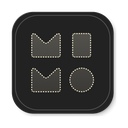
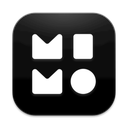
fix(mimo): the cloud card no longer pretends to read the Desktop app, and a new Desktop mark
Two things the three-card split left behind.

The auth modal still ran the Desktop credential import for BOTH cards, so opening
the cloud card (`xiaomi-mimo`) showed "Quit Xiaomi MiMo Desktop and retry" and
"the desktop app keeps an exclusive lock on its credential store" — for a card
that bills the cloud API and has nothing to do with the Desktop app. The modal now
derives its screen from the card: `mimo-desktop` keeps the detect/import flow,
`xiaomi-mimo` goes straight to browser authorization. Deriving rather than storing
the cloud phase also means a phase left over from the other card cannot leak the
Desktop screens in.

The Desktop card gets the icon the user supplied — a black squircle with the four
glyphs — replacing the previous mark. Regenerated at the repo's 128px/RGBA
convention (source already had transparent corners).

The "Preview models (MiMo-X-Pro/Flash) will be available" line named the retired
ids, so it now just says Desktop models (zh-CN / zh-TW literals updated with it,
plus the two new cloud-card strings).

Guard: the routes test now asserts every screen switches on the derived phase, so
a raw `{phase === ` cannot reappear and put the Desktop notices back on the cloud
card. Full suite 3374 tests, gate reports no regression; golden snapshots clean.

diff --git a/src/shared/components/XiaomiMimoAuthModal.js b/src/shared/components/XiaomiMimoAuthModal.js
@@ -23,7 +23,17 @@ export default function XiaomiMimoAuthModal({ provider, isOpen, onSuccess, onClo
   // `mimo-desktop` (account-session models). Every endpoint below is addressed by
   // provider id, so the connection lands under the card the user actually opened.
   const providerId = provider === "mimo-desktop" ? "mimo-desktop" : "xiaomi-mimo";
+  // The Desktop card is the only one that reads the local Desktop profile. The
+  // cloud card bills the API, so its modal goes straight to browser authorization
+  // (or the separate Add API Key dialog). Running the Desktop import there used to
+  // show "quit MiMo Desktop"/credential-lock text on a card that has nothing to do
+  // with the Desktop app.
+  const isDesktopCard = providerId === "mimo-desktop";
   const [phase, setPhase] = useState("detecting"); // detecting | found | not-found | importing
+  // The cloud card has exactly one screen, so its phase is DERIVED rather than
+  // stored: a stored value could survive a card switch and leak the Desktop UI
+  // ("quit MiMo Desktop" and the credential-lock notice) onto a cloud card.
+  const effectivePhase = isDesktopCard ? phase : "cloud";
   const [detectResult, setDetectResult] = useState(null);
   const [desktopLocked, setDesktopLocked] = useState(false);
   const [error, setError] = useState(null);
@@ -64,6 +74,9 @@ export default function XiaomiMimoAuthModal({ provider, isOpen, onSuccess, onClo
   // Auto-detect local credentials when modal opens
   useEffect(() => {
     if (!isOpen) return;
+    // Cloud card: never touch the Desktop profile. `effectivePhase` is already
+    // "cloud", so nothing to transition to — just skip the import machinery.
+    if (!isDesktopCard) return;
     let cancelled = false;
 
     (async () => {
@@ -104,7 +117,7 @@ export default function XiaomiMimoAuthModal({ provider, isOpen, onSuccess, onClo
     })();
 
     return () => { cancelled = true; };
-  }, [isOpen]);
+  }, [isOpen, isDesktopCard]);
 
   // Quiet re-check: the user may sign into MiMo Desktop WHILE this modal sits
   // on the "not found" screen — the original detect only ran once on open, so
@@ -112,7 +125,7 @@ export default function XiaomiMimoAuthModal({ provider, isOpen, onSuccess, onClo
   // spinner flicker) and flip via the full detect() only when credentials
   // actually appeared.
   useEffect(() => {
-    if (!isOpen || phase !== "not-found") return;
+    if (!isOpen || !isDesktopCard || phase !== "not-found") return;
     const t = setInterval(async () => {
       try {
         const res = await fetch(`/api/oauth/xiaomi-mimo/auto-import`);
@@ -121,7 +134,7 @@ export default function XiaomiMimoAuthModal({ provider, isOpen, onSuccess, onClo
       } catch { /* transient — keep the current screen */ }
     }, 4000);
     return () => clearInterval(t);
-  }, [isOpen, phase]);
+  }, [isOpen, phase, isDesktopCard]);
 
   // Import the auto-detected credentials. Session-only (no auth.json sk- key but
   // a readable Desktop account session) is a first-class path: the session alone
@@ -322,8 +335,41 @@ export default function XiaomiMimoAuthModal({ provider, isOpen, onSuccess, onClo
   return (
     <Modal isOpen={isOpen} title={translate("Connect Xiaomi MiMo")} onClose={onClose}>
       <div className="flex flex-col gap-4">
+        {/* Cloud card (`xiaomi-mimo`): browser authorization only. The Desktop
+            session import belongs to the MiMo Desktop card, so none of the
+            credential-lock / "quit the desktop app" guidance applies here. */}
+        {effectivePhase === "cloud" && (
+          <>
+            <div className="bg-blue-50 dark:bg-blue-900/20 p-3 rounded-lg border border-blue-200 dark:border-blue-800">
+              <div className="flex gap-2 items-start">
+                <span className="material-symbols-outlined text-blue-600 dark:text-blue-400">info</span>
+                <div className="text-sm text-blue-800 dark:text-blue-200">
+                  <p className="font-medium">{translate("Cloud models — sign in with the browser")}</p>
+                  <p className="mt-1 opacity-80">
+                    {translate("This card bills the cloud API, so it uses the browser authorization or an sk- API key. Desktop credits belong to the MiMo Desktop card.")}
+                  </p>
+                </div>
+              </div>
+            </div>
+
+            {error && (
+              <div className="bg-red-50 dark:bg-red-900/20 p-3 rounded-lg border border-red-200 dark:border-red-800">
+                <p className="text-sm text-red-600 dark:text-red-400">{error}</p>
+              </div>
+            )}
+
+            {!oauthUrl ? (
+              <Button onClick={handleStartOAuth} fullWidth>
+                {translate("Sign in via Browser")}
+              </Button>
+            ) : (
+              renderBrowserAuth()
+            )}
+          </>
+        )}
+
         {/* Detecting */}
-        {phase === "detecting" && (
+        {effectivePhase === "detecting" && (
           <div className="text-center py-6">
             <div className="size-16 mx-auto mb-4 rounded-full bg-primary/10 flex items-center justify-center">
               <span className="material-symbols-outlined text-3xl text-primary animate-spin">
@@ -338,7 +384,7 @@ export default function XiaomiMimoAuthModal({ provider, isOpen, onSuccess, onClo
         )}
 
         {/* Found — one-click import */}
-        {phase === "found" && detectResult && (
+        {effectivePhase === "found" && detectResult && (
           <>
             <div className="bg-green-50 dark:bg-green-900/20 p-3 rounded-lg border border-green-200 dark:border-green-800">
               <div className="flex gap-2">
@@ -355,7 +401,7 @@ export default function XiaomiMimoAuthModal({ provider, isOpen, onSuccess, onClo
                   </p>
                   <p className="mt-1 opacity-80">
                     {detectResult.sessionOnly
-                      ? translate("Signed in via Desktop — Preview models (MiMo-X-Pro/Flash) will be available. Cloud models need an sk- API key.")
+                      ? translate("Signed in via Desktop — the Desktop models will be available. Cloud models need an sk- API key.")
                       : detectResult.hasDesktopSession
                         ? translate("Desktop account session detected — Preview models will be available.")
                         : detectResult.desktopLocked
@@ -413,7 +459,7 @@ export default function XiaomiMimoAuthModal({ provider, isOpen, onSuccess, onClo
         )}
 
         {/* Importing */}
-        {phase === "importing" && (
+        {effectivePhase === "importing" && (
           <div className="text-center py-6">
             <div className="size-16 mx-auto mb-4 rounded-full bg-primary/10 flex items-center justify-center">
               <span className="material-symbols-outlined text-3xl text-primary animate-spin">
@@ -425,7 +471,7 @@ export default function XiaomiMimoAuthModal({ provider, isOpen, onSuccess, onClo
         )}
 
         {/* Not found — offer OAuth fallback */}
-        {phase === "not-found" && (
+        {effectivePhase === "not-found" && (
           <>
             <div className="bg-amber-50 dark:bg-amber-900/20 p-3 rounded-lg border border-amber-200 dark:border-amber-800">
               <div className="flex gap-2 items-start">

diff --git a/tests/unit/xiaomi-mimo-routes.test.js b/tests/unit/xiaomi-mimo-routes.test.js
@@ -263,4 +263,18 @@ describe("MiMo three-card split", () => {
     expect(src).not.toContain('provider: "xiaomi-mimo",');
     expect(src).toContain("await getProviderConnections({ provider })");
   });
+
+  it("never runs the Desktop credential import for the cloud card", () => {
+    // `xiaomi-mimo` bills the cloud API, so the Desktop branch's screens ("quit
+    // MiMo Desktop", the credential-store lock notice, "or sign in via browser")
+    // have no business appearing on it. Its phase is DERIVED to "cloud", which
+    // also means a stale `phase` left over from the other card cannot leak through.
+    const modal = read("src/shared/components/XiaomiMimoAuthModal.js");
+    expect(modal).toContain('const effectivePhase = isDesktopCard ? phase : "cloud"');
+    expect(modal).toContain('if (!isDesktopCard) return;');
+    // Every screen must switch on the derived phase; a raw `{phase === ` would
+    // let the Desktop screens render on the cloud card again.
+    expect(modal).toContain("{effectivePhase === \"cloud\"");
+    expect(modal).not.toContain("{phase === ");
+  });
 });
